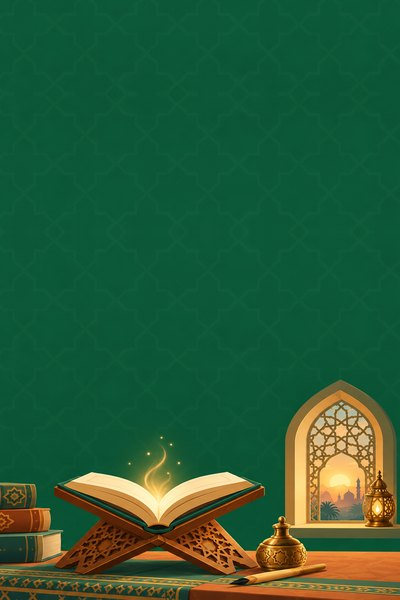
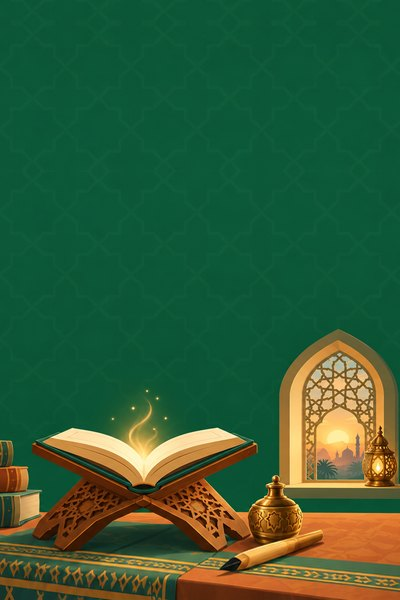
Татбиқ muqovasi: sahna kattaroq — yozuv bilan rasm orasidagi bo'sh joy kamaydi
Claude-Session: https://claude.ai/code/session_016qH1rQUwQX2w9K8CsY2B3K

Changed region(s): [[0.0, 0.54, 1.0, 1.0]]

diff --git a/src/build/muqova-yigish.py b/src/build/muqova-yigish.py
@@ -1,0 +1,12 @@
+import sys
+from PIL import Image, ImageOps
+x0,x1,yc,k,out=int(sys.argv[1]),int(sys.argv[2]),int(sys.argv[3]),float(sys.argv[4]),sys.argv[5]
+im=Image.open(sys.argv[6] if len(sys.argv)>6 else 'src/build/muqova-rasm-2.jpg').convert('RGB'); s=400/(x1-x0)
+up=im.crop((x0,0,x1,yc)).resize((400,round(yc*s)),Image.LANCZOS)
+lo=im.crop((x0,yc,x1,720)).resize((400,round((720-yc)*s*k)),Image.LANCZOS)
+h=up.size[1]+lo.size[1]; top=600-h
+o=Image.new('RGB',(400,600)); o.paste(up,(0,top)); o.paste(lo,(0,top+up.size[1]))
+wall=up.crop((0,0,400,round(270*s))); y=top; f=True
+while y>0:
+    b=ImageOps.flip(wall) if f else wall; o.paste(b,(0,y-b.size[1])); y-=b.size[1]; f=not f
+o.save(out,quality=86,optimize=True); print(out,'window top',top+round(290*s))

diff --git a/docs/texnik/18-qobiq.md b/docs/texnik/18-qobiq.md
@@ -6,7 +6,7 @@
 - **Bo'limlar:** `yol.html` — **Йўл** (asosiy ekran) · `takror.html` — **Такрорлаш** · `qoidalar.html` — **Грамматика** (19.11.2026 gacha «Қоидалар»; tepada qidiruv, Сарф va Наҳв kartalari, «Эшитиш» — pleyer qilinguncha, pastda **«Татбиқ» kitobi** kartasi (21.11.2026, foydalanuvchi: «endi video darslar emas — Tatbiq kitobi, ichida videolari bilan»; oldin «Видео дарслар» → «Видеолар») — muqova `fon/tatbiq.jpg` (foydalanuvchi: bob rasmlari emas — umumiy bitta rasm, boblar ko'payishi mumkin; sonlar yozilmaydi. Fon — ElevenLabs rasmi `src/build/muqova-rasm.jpg` (ochiq kitob rahlda, yorug'likdan sakkiz qirrali yulduz, qalam va siyohdon, panjarali deraza; flow `dK830LkjgOdz4Zg9rpZ8`, tugun `Ptk2JS5avheLY1vVrafl`, 81 kredit), ustida oltin ramka, «АРАБ ТИЛИ ГРАММАТИКАСИ», arabcha nom va «ТАТБИҚ» — kod bilan (arabcha harakat buzilmasin); manba `src/build/muqova-tatbiq.html`, yasash `python3 src/build/muqova.py`, 750×1125). **Bob kartalari va bob ichidagi bosh rasm** (21.11.2026, foydalanuvchi: yozuv rasm ustida o'qilmayapti): tepada rasm (kartada kvadrat — rasmning yuqori qismi), yozuv pastda bob rangidagi tekis maydonda (`.g-cv .im` / `.bt`, `.g-bb .im` / `.tx`) (bitta sahifa ichida hash ko'rinishlar: `#v` — muqova + «Мундарижа»: 10 bob muqovasi (2 ustun, «k / n» o'qilgan) va pastda «Якуний дарс» kartasi (53-dars, `YI` — `B` ning oxirgi elementi, bob emas); `#vN` — bob ichi: tepada bob rasmi, ostida darslar ro'yxati (`qator()`: raqam, nom, «Ўқиш» / «▶ vaqt», o'qilgani ✓; sahifasi yo'q — «Тез орада»); o'qilgan dars — `localStorage` `tb-oqildi` (dars sahifasi ochilganda, faqat qurilmada); `#dN` — **dars sahifasi «Татбиқ»** (21.11.2026, foydalanuvchi qarori; kitobning nomi — «Татбиқ»): `tatbiq.js` (bir marta yuklanadi, `sw.js` FILES da) — `Tatbiq.D[n]` ma'lumot + `Tatbiq.chiz(n, el, o)`; tartib: video (`V[n].yt` bo'lsa 9:16 iframe; YouTube'ga qo'yilguncha `V[n].mp4` (+ `p` — rasm) bo'lsa saytdagi fayl `<video>` bilan (21.11.2026, foydalanuvchi: «hozircha saytga joylab turaver, keyin YouTube orqali»); yo'q bo'lsa hech narsa chiqmaydi — 21.11.2026; kitob matni (`D[n]`) hali yo'q, video bor darsda — faqat video va «Китоб матни ва машқ — тез орада») → kitob matni (kitobdagidek, `kitob-1-53.md`; Word sxemalari qayta chizilgan: daraxt `dar`, zinapoya `zina`, jadval `jad`, vaqt chizig'i `vaqt`, muzoraat plitkalari `mzh`, aylanish `ayl` (`x[5]` rang, `x[6]='o'` — qo'shilgan qism oxirda), bosqichlar `qd` (`[belgi, izoh, arabcha, rang]`, 4-dars); daraxt 2 yoki 3 shoxli; arabchada `<em>` — qo'shilgan/ajratilgan harf rangda) → «Машқ» (kitob savollari: «Жавобни кўриш»; ajratish `aj` — so'z → guruh, darhol tekshiradi; harf sanash `sn`; variantdan tanlash `tn` — bittadan, har xato variantga o'z izohi (4-dars, muannas yasash); `aj` so'ziga 3-element — xato bo'lsa chiqadigan izoh) → «Қўшимча» va «Юқори даража» (yopiq `details`; kitobda yo'q, mashhur nahv/sarf kitoblaridan — sahifada manba yozilmaydi, loyiha qoidasi 3) → ‹ Олдинги · Кейинги ›; matn belgilari: ⟨…⟩ arabcha, **…** qalin; ranglar i/f/h (исм/феъл/ҳарф), m/z/a (мозий/музорий/амр), qorong'i rejimda ochroq; sahifasi bor darslar — `qoidalar.html` `TB` (bob ichida «Ўқиш», videosi bo'lsa «▶»); **tartib (foydalanuvchi, 21.11.2026):** arabcha misollar to'ri (`mis`), muzoraat plitkalari, daraxt (`dar`) va vaqt chizig'i (`vaqt`) o'ngdan chapga — arabcha o'qish tartibida (мозий, музорий, амр); «Қўшимча», «Юқори даража» va javoblarda arabcha misol gap ichiga yozilmaydi (qatorda bo'linib ketadi) — qator-jadval `['r', izoh, 'arabcha']` yoki alohida chip qatori `'⟨a · b → c⟩'`; gap ichida faqat bitta qisqa so'z/harf (`.ar` bo'linmaydi); umumiy klass nomlari `shell.css` bilan to'qnashmasin — hammasi `tb-` bilan (`.w` shell.css da 196px padding beradi). Hozir 1–5 (saytda, 4–5 — 21.11.2026), 46–47 (21.11.2026, foydalanuvchi: «kanani darsidan boshlab» — `tayyor-tatbiq-kana`) 48 va 49 (23.11.2026, `tayyor-tatbiq-48`); **48-darsdan (23.11.2026):** `tsl` — tuslanish jadvali **kitobdagidek** (foydalanuvchi: «kitobdagidek yaxshi emasmi» — ustun — shaxs va jins, III shaxs eng o'ngda; qator — son; `tslH(t)`, `t = {h1: [[shaxs, ustun soni]], h2: [[jins, rang]], r: [[son, kataklar]]}`; katak `[arabcha, tarjima, 'r2'|'c2']` yoki `0`, `'—'` — yashirin; tarjima har shakl tagida — kitobdagi ikki jadval bittada; tarjima yashirin — jadval ustida «Таржима» tugmasi `.tb-tj` (`.tb-tw.tj` ochadi; 23.11.2026, foydalanuvchi: tarjima arabchaga qo'shilib ketardi), `'—'` katakdagi «яширин …» doim ko'rinadi, Машқ `ty` jadvalida tarjima doim bor); `tk` ning 6-elementi — savol `[arabcha, tarjima]` (javob tarkibi ustida xira qatorda); Машқ `ty: [ustunlar, qatorlar]` — yopiq jadval (katak bosilsa ochiladi, «Ҳаммасини очиш»); `oq` gapining 7-elementi — javobning qisqa tarkibi (`TZ()`); **46-darsdan (21.11.2026):** ranglar videodagidek — arabcha ichida `[r]…[/]` raf binafsha, `[s]` nasb yashil, `[g]` kaana tilla, `[n]` muannaslik «т»si pushti, `[h]` harf (`E()`, `ar()`/`A()` ichida; `.tb` dagi `--rf --ns --kn --mn --hf`); yangi bloklar: `gl` (gap bo'laklari yorlig'i bilan — `[so'z, nom, holat, rang]`, o'ngdan chapga), `ps` (pastga strelka + yozuv), `gp` (mubtado–xabar guruhlari, kitobdagi arabcha yorliq bilan: «لِلْعَاقِلِ», «مُذَكَّرٌ»; har gap alohida qatorda, chapda son turi — foydalanuvchi: «bitta gapga o'xshab turibdi»; `SN`: `b` муфрад, `t` тасния, `jt` жам таксир, `js` жам солим), `kf` (kaana formulasi: «كَانَ + jumla» → «= natija» + tarjima, 5-element — son turi `SN`; sarlavha `A()`), `tk` (tarkib kartasi: gap, tarjima, «so'z — tarkibi» qatorlari kitobdagidek, jumla turi; qolip `tkK/tkI/tkX`, `JH`, `NF`), `ik` (ikki quti); `vaqt` 3-elementi `'n2'` — ikki ustun; qismlarda `['a', uzun arabcha, tarjima]` — qatorga bo'linadigan arabcha (oyat, uzun gap; `.tb-oy`); Машқ: `q.b` — savol ostida blok (namuna), `oq` — kitobdagi harakatsiz gaplarni o'qish (`[[guruh, [[savol, javob, savol harakatli, javob harakatli, tarjima, tarjima]]]]`; bosilsa harakatli yozuvi va tarjimasi), `tn` da `c: 's gp'` — uzun gapli variantlar; arabcha harf yolg'iz turganda nomi bilan («аломати алиф ⟨ا⟩» — kichrayganda «!»ga o'xshardi); **bob kirish videosi** `KR` (`qoidalar.html`, `{bobIndeks: {mp4, p, t, n}}`): bob ichida ro'yxat ustida karta («Кириш видеоси»), bosilsa o'sha joyda o'ynaydi (`.g-kr` → `.g-kv`); 10-bob — kana turkumining kirishi `vk00-*`; ranglar: k музаккар, n муаннас (4-dars), b муфрад, t тасния, j жам (5-dars); formula `fr` — `[муфрад, асос, қўшимча, натижа, маъно]` (5-dars); `tn` 6-element — javobdan keyin ma'no; «‹» tugmasi `#gbk`); qidiruv natijasi ro'yxat bo'lib karta o'rnida chiqadi; ma'lumot sahifaning o'zida: `B` boblar (kitob tartibida 10 bob + «Якуний дарс» = 53 dars; 21.11.2026 qayta ko'rildi: «Феъл» bobi ikkiga — «Феълнинг тусланиши» 17–20 va «Мабний феъллар ва зарфлар» 21–24 (zarf — ism), 11-dars «Такрор» qo'shildi, 48-dars nomi 49–50 kabi; `M` — `[arabcha nom, rang, rasm]`), `M` bob arabcha nomi va rangi, `V` tayyor videolar `{dars: {yt, t}}` yoki `{dars: {mp4, p, t}}` (47 — 21.11.2026; 46 — 21.11.2026 kech, `vk46-*`); **saytdagi video:** repo ildizida `vkNN-<md5[:8]>.mp4` va `vkNN-<md5[:8]>.jpg` (rasm — videoning birinchi soniyalaridan kadr), siqish: `ffmpeg -i out.mp4 -vf scale=-2:1280:flags=lanczos -c:v libx264 -preset slow -crf 25 -pix_fmt yuv420p -c:a aac -b:a 128k -movflags +faststart` (2:49 → 11 MB; 1080p CRF 27 — 16 MB, matn farqi sezilmadi); `sw.js` (va `src/build/scratchpad/site/sw.tpl.js`) `.mp4` ni ushlamaydi — kesh yo'q, brauzer o'zi bo'laklab oladi; YouTube ID kelganda `mp4`/`p` o'rniga `yt`, fayllar o'chiriladi; videosi yo'q mavzu «Тез орада»; bob muqovalari `fon/g1.jpg`…`g10.jpg` (g10 — 5-bob, 21.11.2026: tosh ustun tokchasi, kompas, usturlob, chiroq; rang #34495E; flow tuguni `I4P8Q4d6UccjbJzhX04e`) (400×600, ≈16–37 KB; ElevenLabs `gpt-image-2.5-sunburst`, `aspect_ratio 2:3`, `1K`, `quality medium` ≈81 kredit; flow `dK830LkjgOdz4Zg9rpZ8`; prompt qolipi: «Book-cover illustration for one chapter of an Arabic grammar video course in a mobile learning app, chapter theme "‹mavzu›": ‹buyumlar›. Flat vector illustration with soft shapes and gentle shading. The objects sit in the upper two thirds of the frame; the lower third is left as calm, plain empty background for a title. Plain solid deep ‹rang› background (‹hex›) with a very faint Islamic geometric eight-pointed star pattern. Palette: ‹rang›, warm cream, gold accents, terracotta, a little teal. No text, no letters, no numbers, no calligraphy, no people, no animals, no frame, no border.» — boblar: qalam va siyohdon, qurilayotgan peshtoq, yo'l ko'rsatkich va aksi, qum soati va charxpalak, yelkanli qayiq, tongdagi deraza va xat, nishon va o'q, qumdagi izlar, egizak minoralar); ruschada hash ko'rinishlar o'chiq; ruschada bitta «Татбик — Скоро» qatori; holat faqat o'qiladi: `sarf-holat`; reja — `docs/grammatika-pleyer-reja.md`) · `yana.html` — **Яна** (hisob, Созламалар, Йўриқнома, Фикр юбориш, Илова ҳақида). «Созламалар» — «Яна» ichidagi sahifa (orqaga → `yana.html`); Фикр/Йўриқнома/Версия qatorlari sozlamalardan «Яна»ga ko'chdi.
   - **«Татбиқ» ko'rinishi (23.11.2026, foydalanuvchi: claude.ai Design maketidagi «C + B» varianti; yuqoridagi muqova, «Мундарижа», bob ichi va «o'qilgan» haqidagi gaplar o'rniga):** `#v` — yashil gradientda kitob buyumdek (`.tk-kt`: fon `fon/tatbiq-fon.jpg` = `src/build/muqova-rasm.jpg` 400×600, ustida to'liq nom «عِلْمُ الصَّرْفِ وَالنَّحْوِ وَتَطْبِيقُهُمَا» va «ТАТБИҚ» — kod bilan; `fon/tatbiq.jpg`, `muqova.py`, `muqova-tatbiq.html` endi ishlatilmaydi), to'liq nom, sonlar (боб · дарс · видео), «Давом эттириш · N-дарс» (hali dars ochilmagan bo'lsa «Бошлаш» — birinchi ochiq dars), «Мундарижа» — bir ustun kartalar (`.tk-bk`: mehrob shaklidagi rasm `.tk-ra`, «N-БОБ · a–b-ДАРСЛАР», nom, arabchasi; ochiq darsi yo'q bob — «Тез орада»), «Якуний дарс» (`.tk-yk`). `#vN` — bob rangi foni (`--c`), rasm mehrob ramkasida, «N-БОБ · …» belgisi, nomlar, yulduzli chiziq; kirish videosi (`.g-kr`); «Дарслар» yo'l bo'ylab (`.tk-yl`/`.tk-d`: raqamli tugun — ochiq dars bob rangida, «Тез орада» — uzuq chiziqli; «X нинг …» nomida X alohida belgi, nom qisqaradi — `nomi()`; videoli darsda rasm + vaqt). **Progress yo'q** (foydalanuvchi: kitob qayta-qayta o'qiladi): ✓, «k / n ўқилди» va chiziq olib tashlandi; faqat `localStorage` `tb-oxirgi` — oxirgi ochilgan dars (xatcho'p, «Охирги очилган», «Давом эттириш»); `tb-oqildi` endi yozilmaydi. **Nomlar va belgilar rangsiz** — hamma bob bir xil qolipda (foydalanuvchi: «mavzularning nomlarini rangli qilib, alohida ko'rinib turadigan qilib qilma»). **Bob ranglari (`M`) va rasmlari:** bob rangi va rasmdagi ranglar mavzuga mos — mavzusi tarkib bo'lagi bo'lsa tarkib rangidan (`shell.css` / `tarkib3.js`): 4 fe'l `#7A5200`, 8 maf'ulun bih `#0C6A30`, 10 kana `#8A2555`; 7 va 9 — neytral fon (`#2F2B28`, `#2B2F33`), rasmdagi buyumlar tarkib rangida; 1–3, 5, 6 — sokin tuslar (`#4F5560`, `#5E5248`, `#4D5A54`, `#5C5A4C`, `#4B4B4B`) — yorqin tarkib ranglari bilan adashtirmaslik uchun. Darslar ichidagi ranglar o'zgarmaydi. Rasmlar: 7-bob `g6` (ko'k darvoza — mubtado, qizil muhr — xabar, binafsha qandil — fo'il), 8-bob `g7` (yashil nishon va o'q), 9-bob `g8` (binafsha eshik va qumdagi izlar — noibi fo'il, fe'l rangidagi ko'prik — mutaaddiy) — ElevenLabs flow `dK830LkjgOdz4Zg9rpZ8` (tugunlar `S4jIN1gdrFEEFcCYtqOD`, `KoRHb4bFH3w1TUcRVUKd`, `VwqgtR9obpIn79QB2dgh`; 81 kredit har biri), so'ng ranglar kod bilan tarkib rangiga tortilgan (rasmdagi boshqa ko'k/feruza — xiralashtirilgan); 10-bob `g9` va 1–6 — qayta chizilmagan, fon rangi kod bilan bob rangiga o'tkazilgan (yorug'lik farqi saqlanadi). Yangi bob rasmi: ma'noga mos buyum, tarkib rangi faqat o'sha buyumda, harfsiz. 10-bob nomi `B` da «Кана ва инна» (arabcha so'zli nom teskari ko'rinardi). **Ixcham bosh qism (23.11.2026, foydalanuvchi: ochilganda muqova juda katta, darslar ko'rinmaydi; kartadagi muqovada nom yo'q edi):** muqova bitta qolip — `muq()` (200×300, `.tk-kt`), `#v` da `.tk-ko` ichida `scale(.55)` — chapda, o'ngida `.tk-hm` (arabcha nom, «Араб тили грамматикаси», `.tk-st` sonlar), ostida `.tk-dv`; «Грамматика» kartasida `.g-vk .kt` ichida `scale(.4)` (nom shriftlari kattaroq — `.g-vk .kt .tk-kt .yz`). Muqova o'lchami faqat shu ikki `scale` bilan o'zgartiriladi.
   - **Muallif (26.11.2026, foydalanuvchi):** muqovada (`muq()`, `.yz .mu`) «ТАТБИҚ» ostida arabcha «تَأْلِيفُ قَهْرَمَانَ بْنِ عِزَّةِ اللّٰهِ»; kitob sahifasi tepasida bob/dars/video sonlari olib tashlandi («Мундарижа» bor) — o'rnida «Муаллиф · Қаҳрамон ибн Иззатуллоҳ» (`.tk-mu`). Ruschada kitob hali «Скоро» — tarjima kerak emas.
-  - **Jild (26.11.2026, foydalanuvchi: «2-jildi bor hali»; 2-jild boshlansa o'zi aytadi):** muqovada «ТАТБИҚ» ostida, muallifdan oldin arabcha «الْجُزْءُ الْأَوَّلُ» (`.yz .jl`); kitob sahifasi tepasida «Араб тили грамматикаси · 1-жилд» (`.tk-ks`), «Грамматика» kartasida «1-жилд · N боб · N дарс». 2-jild uchun hozircha karta yo'q. Muqova tepasidagi qoraytirish (`.m:before`) 185px gacha uzaytirildi, jild va muallif qatorlarida qoramtir soya — ism derazaning yorug'ida o'qilmay qolardi. **Muqova rasmi qayta chizildi** (26.11.2026, foydalanuvchi: muallif ismi orqasiga deraza va kitob nuri tushib chalg'itardi — «1»: ElevenLabs bilan): yuqori yarmi bo'sh devor, deraza va nur pastda — tahrir tuguni `qzrmQab51IvuakitNixN` (flow `dK830LkjgOdz4Zg9rpZ8`, eski muqova tugunidan; **diqqat:** tugun sukuti `quality high`, `aspect_ratio 16:9` — 433 kredit ketdi, 1280×720 chiqdi; keyingi safar `2:3`, `medium` qo'yilsin). Manba `src/build/muqova-rasm-2.jpg`; `fon/tatbiq-fon.jpg` kod bilan yig'ilgan: x 325–1108 kesib 400 kenglikka, pastga qo'yilgan, tepasi devor bo'lagi (y 0–270) navbat bilan ag'darib to'ldirilgan.
+  - **Jild (26.11.2026, foydalanuvchi: «2-jildi bor hali»; 2-jild boshlansa o'zi aytadi):** muqovada «ТАТБИҚ» ostida, muallifdan oldin arabcha «الْجُزْءُ الْأَوَّلُ» (`.yz .jl`); kitob sahifasi tepasida «Араб тили грамматикаси · 1-жилд» (`.tk-ks`), «Грамматика» kartasida «1-жилд · N боб · N дарс». 2-jild uchun hozircha karta yo'q. Muqova tepasidagi qoraytirish (`.m:before`) 185px gacha uzaytirildi, jild va muallif qatorlarida qoramtir soya — ism derazaning yorug'ida o'qilmay qolardi. **Muqova rasmi qayta chizildi** (26.11.2026, foydalanuvchi: muallif ismi orqasiga deraza va kitob nuri tushib chalg'itardi — «1»: ElevenLabs bilan): yuqori yarmi bo'sh devor, deraza va nur pastda — tahrir tuguni `qzrmQab51IvuakitNixN` (flow `dK830LkjgOdz4Zg9rpZ8`, eski muqova tugunidan; **diqqat:** tugun sukuti `quality high`, `aspect_ratio 16:9` — 433 kredit ketdi, 1280×720 chiqdi; keyingi safar `2:3`, `medium` qo'yilsin). Manba `src/build/muqova-rasm-2.jpg`; `fon/tatbiq-fon.jpg` kod bilan yig'ilgan (foydalanuvchi: yozuv bilan rasm orasida bo'sh joy ko'p — sahna kattaroq): `python3 src/build/muqova-yigish.py 372 1104 640 1.8 fon/tatbiq-fon.jpg` (manba `full.png` = `muqova-rasm-2.jpg`) — x 372–1104 kesib 400 kenglikka, y 640 dan pastki mato 1.8 baravar cho'zilgan, pastga qo'yilgan, tepasi devor bo'lagi navbat bilan ag'darib to'ldirilgan.
 - **`qobiq.js`** (umumiy fayl; uslubni o'zi qo'shadi): `.q-hd`/`.q-hr` — tepa tasma (rangi `--em2`), `.q-w` — sahifa ichi, `.q-rw` — hajmli qator kartasi, `.q-ib` — ikonka katagi, `.q-nav` — pastki tugmalar. `Qobiq.nav('yol'|'takror'|'qoida'|'yana')` — tugmalarni chizadi (`#q-nav`), «Такрорлаш» ustidagi son = bugungi savollar soni (`takror-xulosa` dan: `qoldi`; kechagi bo'lsa `ertaga`; eskiroq — «!») — xarita tepasidagi «такрор» va sahifadagi «такрор + янги» bilan bir xil. Faol tugma bosilsa — sahifa boshiga (`Qobiq.ustiga`). Tarix: asosiy ekrandan bo'limga — oddiy o'tish, bo'limdan bo'limga — `location.replace` (telefonning «orqaga»si asosiy ekranga qaytaradi). `body.y-ses` / `body.tq-ses` (imtihon, saralash, mashg'ulot) — tugmalar yashirin. Dars sahifalarida qobiq yo'q.
 - **Xarita (asosiy ekran) yangiliklari** (`yol.html`): tepada kitob tugmasi + qisqa hisob `.y-hs` (o'tilgan dars · bilgan so'z · bugungi takror; keyingi ikkitasi `takror-xulosa` dan, eskirgan bo'lsa «!») + xarita ↔ ro'yxat tugmasi (`#kr`, tanlov `yol-kor` = `r`); **bob tasmasi** `.y-bb` — tepada qotadi (`position:sticky`), ekrandagi bob nomi va hisobi, bosilsa boblar ro'yxati (`bobBar()`, `bobRoyxat()`, `bobga()`; bo'limlar `[data-b]`); **katta tugma** `.y-cta` (pastki tugmalar ustida, doim ko'rinadi; `ctaChiz()`): «Бошлаш / Давом этиш · N-дарс» → dars sahifasi, «Сўзларни саралаш», imtihon navbatida — imtihon oynasi. Navbatdagi tugun yorlig'idagi kichik «Бошлаш» tugmasi olib tashlandi (katta tugma o'rnini bosadi). **Kitob oxirida «N-китобга ўтиш» tugmasi** (`kitobTugma()`, `.y-kk`; oxirgi bob ostida, xaritada ham, ro'yxatda ham): keyingi kitob bo'lsa chiqadi, kitobning oxirgi darsi o'tilgan bo'lsa — oltin rangda. **Ro'yxat ko'rinishi** (`royxatHtml()`, `.y-lsb`/`.y-li`) — bob sarlavhasi va darslar qatori, bosilsa o'sha dars oynasi; ustoz bilan o'qiganda darsni tez topish uchun (eski bosh sahifadagi ro'yxat o'rniga). Birinchi bob kartasi endi tepa tasma ustiga chiqmaydi.
 - **«Аниқ биламан» belgisi (13.11.2026, foydalanuvchi qarori):** `soz.a` `{id:1}` — o'quvchi 100% biladigan so'zini o'zi belgilaydi («Луғат» qatoridagi ✓ tugma `.lg-ab`; yonida «билмайман» `.lg-bm`; bittasi qo'yiladi, `b` ustun). Bunday so'z kunlik takrorga kirmaydi (`qur()` — lug'atdan chiqarib beriladi; jurnali saqlanadi), bilganlar hisobiga qo'shiladi va alohida ko'rinadi: holat «ўзим белгилаган» (ko'k), «Билган сўзларим» ostida «ўзим белгилаган N», xulosa (`xul()`, `aFaol()`) ham qo'shib yozadi. Bob/kitob imtihonida tekshiruvga birinchi tushadi (`lugTanla`), xato qilinsa — `a` olinib «билмайман»ga o'tadi (imtihon, «Машқ» yorlig'i). Dars sahifasidagi belgi (`shell.js`) `a` ga tegmaydi — `wOl()` o'qiganda `b` bor so'zdan `a` ni olib tashlaydi.
